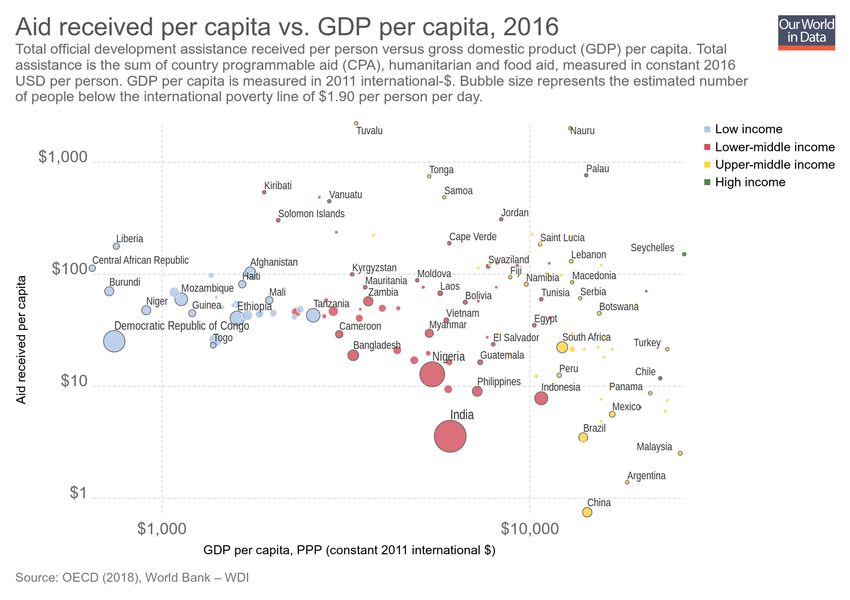
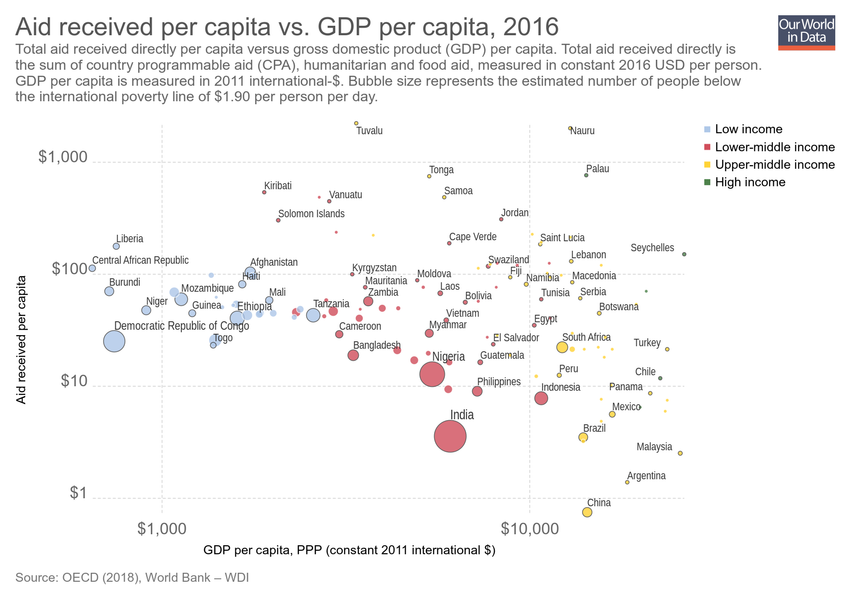
Updating chart aid-vs-gdp-per-capita

Changed region(s): [[0.0, 0.06, 0.8871, 0.18]]

diff --git a/grapher/aid-vs-gdp-per-capita.html b/grapher/aid-vs-gdp-per-capita.html
@@ -1,4 +1,4 @@
-<!doctype html><html><head><meta name="viewport" content="width=device-width, initial-scale=1" /><title>Aid received per capita vs. GDP per capita - Our World in Data</title><meta name="description" content="Total official development assistance received per person versus gross domestic product (GDP) per capita. Total assistance is the sum of country programmable aid (CPA), humanitarian and food aid, measured in constant 2016 USD per person. GDP per capita is measured in 2011 international-$. Bubble size represents the estimated number of people below the international poverty line of $1.90 per person per day." /><link rel="canonical" href="https://ourworldindata.org/grapher/aid-vs-gdp-per-capita" /><meta property="fb:app_id" content="1149943818390250" /><meta property="og:url" content="https://ourworldindata.org/grapher/aid-vs-gdp-per-capita" /><meta property="og:title" content="Aid received per capita vs. GDP per capita" /><meta property="og:description" content="Total official development assistance received per person versus gross domestic product (GDP) per capita. Total assistance is the sum of country programmable aid (CPA), humanitarian and food aid, measured in constant 2016 USD per person. GDP per capita is measured in 2011 international-$. Bubble size represents the estimated number of people below the international poverty line of $1.90 per person per day." /><meta property="og:image" content="https://ourworldindata.org/grapher/exports/aid-vs-gdp-per-capita.png?v=2" /><meta property="og:image:width" content="850" /><meta property="og:image:height" content="600" /><meta property="og:site_name" content="Our World in Data" /><meta name="twitter:card" content="summary_large_image" /><meta name="twitter:site" content="@OurWorldInData" /><meta name="twitter:creator" content="@OurWorldInData" /><meta name="twitter:title" content="Aid received per capita vs. GDP per capita" /><meta name="twitter:description" content="Total official development assistance received per person versus gross domestic product (GDP) per capita. Total assistance is the sum of country programmable aid (CPA), humanitarian and food aid, measured in constant 2016 USD per person. GDP per capita is measured in 2011 international-$. Bubble size represents the estimated number of people below the international poverty line of $1.90 per person per day." /><meta name="twitter:image" content="https://ourworldindata.org/grapher/exports/aid-vs-gdp-per-capita.png?v=2" /><style>
+<!doctype html><html><head><meta name="viewport" content="width=device-width, initial-scale=1" /><title>Aid received per capita vs. GDP per capita - Our World in Data</title><meta name="description" content="Total aid received directly per capita versus gross domestic product (GDP) per capita. Total aid received directly is the sum of country programmable aid (CPA), humanitarian and food aid, measured in constant 2016 USD per person. GDP per capita is measured in 2011 international-$. Bubble size represents the estimated number of people below the international poverty line of $1.90 per person per day." /><link rel="canonical" href="https://ourworldindata.org/grapher/aid-vs-gdp-per-capita" /><meta property="fb:app_id" content="1149943818390250" /><meta property="og:url" content="https://ourworldindata.org/grapher/aid-vs-gdp-per-capita" /><meta property="og:title" content="Aid received per capita vs. GDP per capita" /><meta property="og:description" content="Total aid received directly per capita versus gross domestic product (GDP) per capita. Total aid received directly is the sum of country programmable aid (CPA), humanitarian and food aid, measured in constant 2016 USD per person. GDP per capita is measured in 2011 international-$. Bubble size represents the estimated number of people below the international poverty line of $1.90 per person per day." /><meta property="og:image" content="https://ourworldindata.org/grapher/exports/aid-vs-gdp-per-capita.png?v=3" /><meta property="og:image:width" content="850" /><meta property="og:image:height" content="600" /><meta property="og:site_name" content="Our World in Data" /><meta name="twitter:card" content="summary_large_image" /><meta name="twitter:site" content="@OurWorldInData" /><meta name="twitter:creator" content="@OurWorldInData" /><meta name="twitter:title" content="Aid received per capita vs. GDP per capita" /><meta name="twitter:description" content="Total aid received directly per capita versus gross domestic product (GDP) per capita. Total aid received directly is the sum of country programmable aid (CPA), humanitarian and food aid, measured in constant 2016 USD per person. GDP per capita is measured in 2011 international-$. Bubble size represents the estimated number of people below the international poverty line of $1.90 per person per day." /><meta name="twitter:image" content="https://ourworldindata.org/grapher/exports/aid-vs-gdp-per-capita.png?v=3" /><style>
         html, body {
             height: 100%;
             margin: 0;
@@ -20,8 +20,8 @@
         }
     </style><noscript><style>
                     figure { display: none !important; }
-                </style></noscript><link rel="stylesheet" href="https://ourworldindata.org/grapher/assets/commons.bundle.9b8c6ed3f71d7662b5f2.css" /><link rel="preload" href="/grapher/data/variables/98728+2209+98035+42563.json?v=2" as="fetch" crossorigin /></head><body class="singleChart"><figure data-grapher-src="/grapher/aid-vs-gdp-per-capita"></figure><noscript id="fallback"><img src="/grapher/exports/aid-vs-gdp-per-capita.svg" /><p>Interactive visualization requires JavaScript</p></noscript><script src="https://cdn.polyfill.io/v2/polyfill.min.js?features=es6,fetch"></script><script src="https://ourworldindata.org/grapher/assets/commons.bundle.9b8c6ed3f71d7662b5f2.js"></script><script src="https://ourworldindata.org/grapher/assets/charts.bundle.9b8c6ed3f71d7662b5f2.js"></script><script>
-        var jsonConfig = {"id":3144,"map":{"projection":"World","colorSchemeLabels":[],"colorSchemeValues":[],"customNumericColors":[],"customCategoryColors":{},"customCategoryLabels":{},"customHiddenCategories":{}},"tab":"chart","slug":"aid-vs-gdp-per-capita","type":"ScatterPlot","title":"Aid received per capita vs. GDP per capita","xAxis":{"scaleType":"log","canChangeScaleType":true},"yAxis":{"min":0,"scaleType":"log","canChangeScaleType":true},"maxTime":2016,"minTime":2016,"version":2,"subtitle":"Total official development assistance received per person versus gross domestic product (GDP) per capita. Total assistance is the sum of country programmable aid (CPA), humanitarian and food aid, measured in constant 2016 USD per person. GDP per capita is measured in 2011 international-$. Bubble size represents the estimated number of people below the international poverty line of $1.90 per person per day.","hasMapTab":false,"stackMode":"absolute","dimensions":[{"display":{},"property":"y","variableId":98728},{"display":{},"property":"x","variableId":2209},{"display":{},"property":"size","variableId":98035},{"display":{},"property":"color","variableId":42563}],"sourceDesc":"OECD (2018), World Bank – WDI","hasChartTab":true,"isPublished":true,"selectedData":[],"internalNotes":"For OECD report - do not delete","matchingEntitiesOnly":true};
+                </style></noscript><link rel="stylesheet" href="https://ourworldindata.org/grapher/assets/commons.bundle.9b8c6ed3f71d7662b5f2.css" /><link rel="preload" href="/grapher/data/variables/98728+2209+98035+42563.json?v=3" as="fetch" crossorigin /></head><body class="singleChart"><figure data-grapher-src="/grapher/aid-vs-gdp-per-capita"></figure><noscript id="fallback"><img src="/grapher/exports/aid-vs-gdp-per-capita.svg" /><p>Interactive visualization requires JavaScript</p></noscript><script src="https://cdn.polyfill.io/v2/polyfill.min.js?features=es6,fetch"></script><script src="https://ourworldindata.org/grapher/assets/commons.bundle.9b8c6ed3f71d7662b5f2.js"></script><script src="https://ourworldindata.org/grapher/assets/charts.bundle.9b8c6ed3f71d7662b5f2.js"></script><script>
+        var jsonConfig = {"id":3144,"map":{"projection":"World","colorSchemeLabels":[],"colorSchemeValues":[],"customNumericColors":[],"customCategoryColors":{},"customCategoryLabels":{},"customHiddenCategories":{}},"tab":"chart","slug":"aid-vs-gdp-per-capita","type":"ScatterPlot","title":"Aid received per capita vs. GDP per capita","xAxis":{"scaleType":"log","canChangeScaleType":true},"yAxis":{"min":0,"scaleType":"log","canChangeScaleType":true},"maxTime":2016,"minTime":2016,"version":3,"subtitle":"Total aid received directly per capita versus gross domestic product (GDP) per capita. Total aid received directly is the sum of country programmable aid (CPA), humanitarian and food aid, measured in constant 2016 USD per person. GDP per capita is measured in 2011 international-$. Bubble size represents the estimated number of people below the international poverty line of $1.90 per person per day.","hasMapTab":false,"stackMode":"absolute","dimensions":[{"display":{},"property":"y","variableId":98728},{"display":{},"property":"x","variableId":2209},{"display":{},"property":"size","variableId":98035},{"display":{},"property":"color","variableId":42563}],"sourceDesc":"OECD (2018), World Bank – WDI","hasChartTab":true,"isPublished":true,"selectedData":[],"internalNotes":"For OECD report - do not delete","matchingEntitiesOnly":true};
         var figure = document.getElementsByTagName("figure")[0];
         try {
             window.App = {};

diff --git a/grapher/aid-received-per-capita.html b/grapher/aid-received-per-capita.html
@@ -1,4 +1,4 @@
-<!doctype html><html><head><meta name="viewport" content="width=device-width, initial-scale=1" /><title>Aid received per capita - Our World in Data</title><meta name="description" content="Total aid received directly per person. This is the sum of country programmable aid (CPA), humanitarian and food aid. This is measured in constant 2016 USD per person. Data from 2017 to 2019 is based on forward spending plans of CPA." /><link rel="canonical" href="https://ourworldindata.org/grapher/aid-received-per-capita" /><meta property="fb:app_id" content="1149943818390250" /><meta property="og:url" content="https://ourworldindata.org/grapher/aid-received-per-capita" /><meta property="og:title" content="Aid received per capita" /><meta property="og:description" content="Total aid received directly per person. This is the sum of country programmable aid (CPA), humanitarian and food aid. This is measured in constant 2016 USD per person. Data from 2017 to 2019 is based on forward spending plans of CPA." /><meta property="og:image" content="https://ourworldindata.org/grapher/exports/aid-received-per-capita.png?v=4" /><meta property="og:image:width" content="850" /><meta property="og:image:height" content="600" /><meta property="og:site_name" content="Our World in Data" /><meta name="twitter:card" content="summary_large_image" /><meta name="twitter:site" content="@OurWorldInData" /><meta name="twitter:creator" content="@OurWorldInData" /><meta name="twitter:title" content="Aid received per capita" /><meta name="twitter:description" content="Total aid received directly per person. This is the sum of country programmable aid (CPA), humanitarian and food aid. This is measured in constant 2016 USD per person. Data from 2017 to 2019 is based on forward spending plans of CPA." /><meta name="twitter:image" content="https://ourworldindata.org/grapher/exports/aid-received-per-capita.png?v=4" /><style>
+<!doctype html><html><head><meta name="viewport" content="width=device-width, initial-scale=1" /><title>Aid received per capita - Our World in Data</title><meta name="description" content="Total aid received directly per capita. This is the sum of country programmable aid (CPA), humanitarian and food aid, divided by the population size. This is measured in constant 2016 USD per person. Data from 2017 to 2019 is based on forward spending plans of CPA." /><link rel="canonical" href="https://ourworldindata.org/grapher/aid-received-per-capita" /><meta property="fb:app_id" content="1149943818390250" /><meta property="og:url" content="https://ourworldindata.org/grapher/aid-received-per-capita" /><meta property="og:title" content="Aid received per capita" /><meta property="og:description" content="Total aid received directly per capita. This is the sum of country programmable aid (CPA), humanitarian and food aid, divided by the population size. This is measured in constant 2016 USD per person. Data from 2017 to 2019 is based on forward spending plans of CPA." /><meta property="og:image" content="https://ourworldindata.org/grapher/exports/aid-received-per-capita.png?v=5" /><meta property="og:image:width" content="850" /><meta property="og:image:height" content="600" /><meta property="og:site_name" content="Our World in Data" /><meta name="twitter:card" content="summary_large_image" /><meta name="twitter:site" content="@OurWorldInData" /><meta name="twitter:creator" content="@OurWorldInData" /><meta name="twitter:title" content="Aid received per capita" /><meta name="twitter:description" content="Total aid received directly per capita. This is the sum of country programmable aid (CPA), humanitarian and food aid, divided by the population size. This is measured in constant 2016 USD per person. Data from 2017 to 2019 is based on forward spending plans of CPA." /><meta name="twitter:image" content="https://ourworldindata.org/grapher/exports/aid-received-per-capita.png?v=5" /><style>
         html, body {
             height: 100%;
             margin: 0;
@@ -20,8 +20,8 @@
         }
     </style><noscript><style>
                     figure { display: none !important; }
-                </style></noscript><link rel="stylesheet" href="https://ourworldindata.org/grapher/assets/commons.bundle.9b8c6ed3f71d7662b5f2.css" /><link rel="preload" href="/grapher/data/variables/98728.json?v=4" as="fetch" crossorigin /></head><body class="singleChart"><figure data-grapher-src="/grapher/aid-received-per-capita"></figure><noscript id="fallback"><img src="/grapher/exports/aid-received-per-capita.svg" /><p>Interactive visualization requires JavaScript</p></noscript><script src="https://cdn.polyfill.io/v2/polyfill.min.js?features=es6,fetch"></script><script src="https://ourworldindata.org/grapher/assets/commons.bundle.9b8c6ed3f71d7662b5f2.js"></script><script src="https://ourworldindata.org/grapher/assets/charts.bundle.9b8c6ed3f71d7662b5f2.js"></script><script>
-        var jsonConfig = {"id":3143,"map":{"projection":"World","targetYear":2016,"variableId":98728,"equalSizeBins":true,"baseColorScheme":"YlGnBu","isManualBuckets":true,"colorSchemeLabels":[],"colorSchemeValues":[1,5,10,50,100,200,500,1000],"customNumericColors":[],"customCategoryColors":{},"customCategoryLabels":{},"customHiddenCategories":{}},"tab":"map","slug":"aid-received-per-capita","type":"LineChart","title":"Aid received per capita","xAxis":{"scaleType":"linear"},"yAxis":{"min":0,"scaleType":"linear"},"maxTime":2016,"version":4,"subtitle":"Total aid received directly per person. This is the sum of country programmable aid (CPA), humanitarian and food aid. This is measured in constant 2016 USD per person. Data from 2017 to 2019 is based on forward spending plans of CPA.","hasMapTab":true,"stackMode":"absolute","dimensions":[{"display":{"unit":"USD per person","numDecimalPlaces":2},"property":"y","variableId":98728}],"entityType":"country/region","sourceDesc":"Organisation for Economic Co-operation and Development (OECD)","hasChartTab":true,"isAutoTitle":true,"isPublished":true,"selectedData":[{"index":0,"entityId":273},{"index":0,"entityId":275},{"index":0,"entityId":277},{"index":0,"entityId":47957},{"index":0,"entityId":38229},{"index":0,"entityId":44357},{"index":0,"entityId":38218},{"index":0,"entityId":38220},{"index":0,"entityId":343}],"internalNotes":"For OECD report - do not delete.","addCountryMode":"add-country"};
+                </style></noscript><link rel="stylesheet" href="https://ourworldindata.org/grapher/assets/commons.bundle.9b8c6ed3f71d7662b5f2.css" /><link rel="preload" href="/grapher/data/variables/98728.json?v=5" as="fetch" crossorigin /></head><body class="singleChart"><figure data-grapher-src="/grapher/aid-received-per-capita"></figure><noscript id="fallback"><img src="/grapher/exports/aid-received-per-capita.svg" /><p>Interactive visualization requires JavaScript</p></noscript><script src="https://cdn.polyfill.io/v2/polyfill.min.js?features=es6,fetch"></script><script src="https://ourworldindata.org/grapher/assets/commons.bundle.9b8c6ed3f71d7662b5f2.js"></script><script src="https://ourworldindata.org/grapher/assets/charts.bundle.9b8c6ed3f71d7662b5f2.js"></script><script>
+        var jsonConfig = {"id":3143,"map":{"projection":"World","targetYear":2016,"variableId":98728,"equalSizeBins":true,"baseColorScheme":"YlGnBu","isManualBuckets":true,"colorSchemeLabels":[],"colorSchemeValues":[1,5,10,50,100,200,500,1000],"customNumericColors":[],"customCategoryColors":{},"customCategoryLabels":{},"customHiddenCategories":{}},"tab":"map","slug":"aid-received-per-capita","type":"LineChart","title":"Aid received per capita","xAxis":{"scaleType":"linear"},"yAxis":{"min":0,"scaleType":"linear"},"maxTime":2016,"version":5,"subtitle":"Total aid received directly per capita. This is the sum of country programmable aid (CPA), humanitarian and food aid, divided by the population size. This is measured in constant 2016 USD per person. Data from 2017 to 2019 is based on forward spending plans of CPA.","hasMapTab":true,"stackMode":"absolute","dimensions":[{"display":{"unit":"USD per person","numDecimalPlaces":2},"property":"y","variableId":98728}],"entityType":"country/region","sourceDesc":"Organisation for Economic Co-operation and Development (OECD)","hasChartTab":true,"isAutoTitle":true,"isPublished":true,"selectedData":[{"index":0,"entityId":273},{"index":0,"entityId":275},{"index":0,"entityId":277},{"index":0,"entityId":47957},{"index":0,"entityId":38229},{"index":0,"entityId":44357},{"index":0,"entityId":38218},{"index":0,"entityId":38220},{"index":0,"entityId":343}],"internalNotes":"For OECD report - do not delete.","addCountryMode":"add-country"};
         var figure = document.getElementsByTagName("figure")[0];
         try {
             window.App = {};
